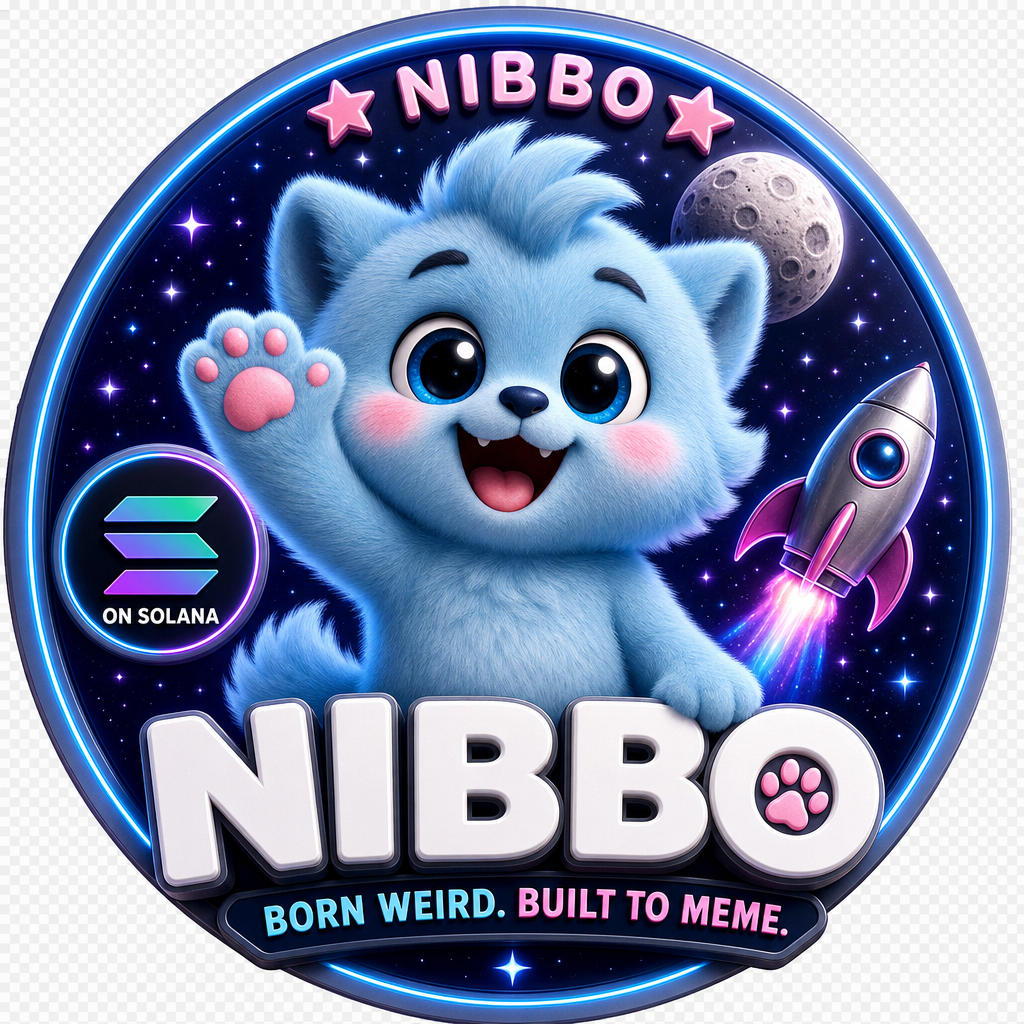
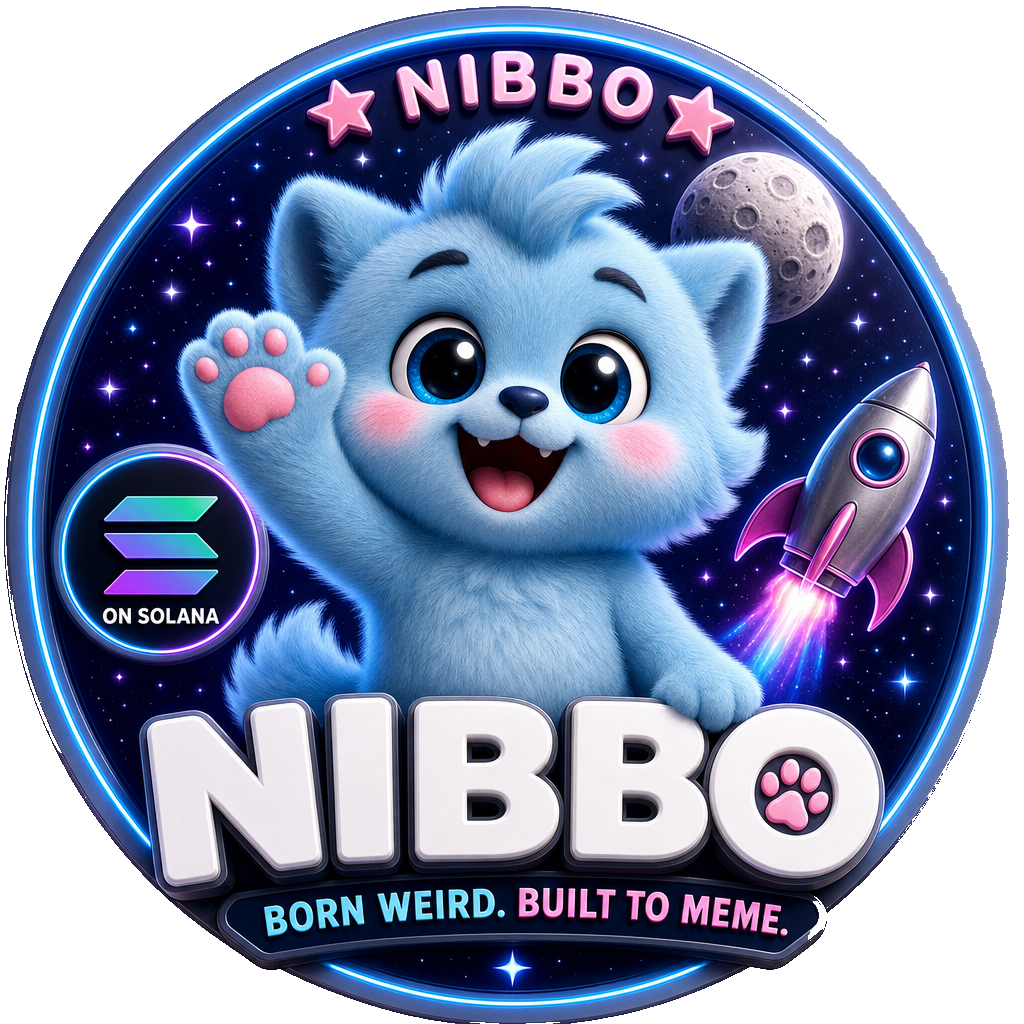
Polish NIBBO hero mascot transparency and text contrast
Remove checkerboard background from the mascot asset and slightly
brighten muted body text for better readability on the dark theme.

diff --git a/src/app/globals.css b/src/app/globals.css
@@ -12,7 +12,7 @@
   --glass: rgba(255, 255, 255, 0.06);
   --glass-border: rgba(255, 255, 255, 0.12);
   --text: #f4f7ff;
-  --text-muted: #a9b4d0;
+  --text-muted: #c2cce3;
   --glow-blue: 0 0 40px rgba(62, 203, 255, 0.35);
   --glow-pink: 0 0 40px rgba(255, 107, 203, 0.3);
   --glow-purple: 0 0 40px rgba(168, 85, 247, 0.3);
